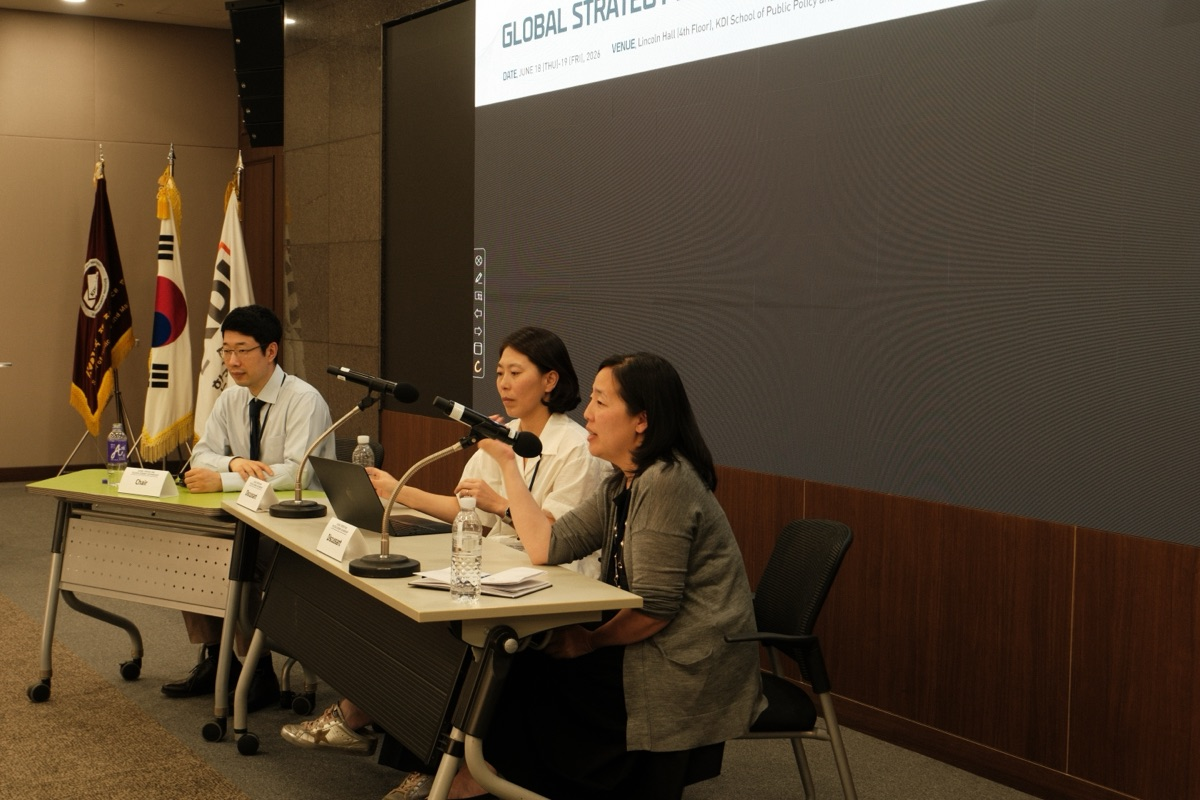
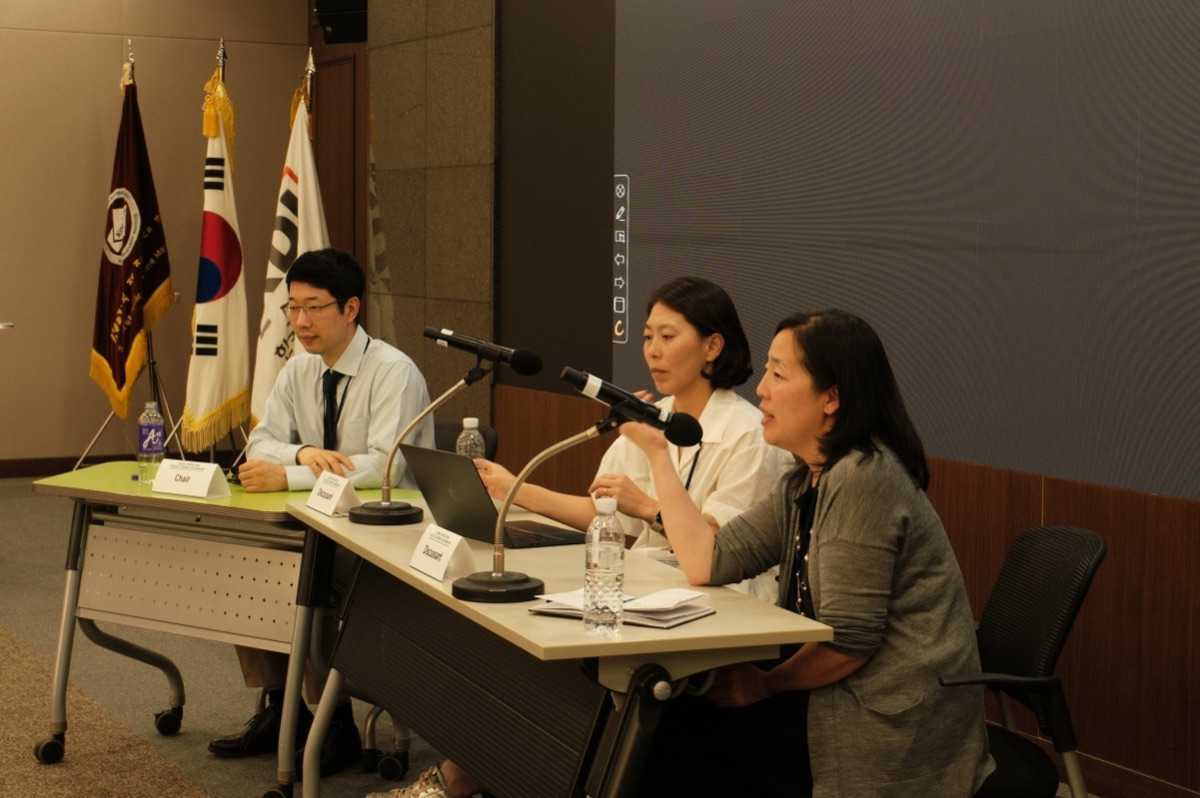
Workshop: update photo 8 with revised crop

diff --git a/workshop/index.html b/workshop/index.html
@@ -96,7 +96,7 @@
         <a href="../assets/img/workshop/workshop-5.jpg" data-lightbox><img src="../assets/img/workshop/workshop-5.jpg" width="1200" height="900" alt="GSPE Lab Workshop photo 5" loading="lazy"></a>
         <a href="../assets/img/workshop/workshop-6.jpg" data-lightbox><img src="../assets/img/workshop/workshop-6.jpg" width="1200" height="900" alt="GSPE Lab Workshop photo 6" loading="lazy"></a>
         <a href="../assets/img/workshop/workshop-7.jpg" data-lightbox><img src="../assets/img/workshop/workshop-7.jpg" width="1200" height="800" alt="GSPE Lab Workshop photo 7" loading="lazy"></a>
-        <a href="../assets/img/workshop/workshop-8.jpg" data-lightbox><img src="../assets/img/workshop/workshop-8.jpg" width="1200" height="800" alt="GSPE Lab Workshop photo 8" loading="lazy"></a>
+        <a href="../assets/img/workshop/workshop-8.jpg?v=ca415c1d" data-lightbox><img src="../assets/img/workshop/workshop-8.jpg?v=ca415c1d" width="1200" height="798" alt="GSPE Lab Workshop photo 8" loading="lazy"></a>
         <a href="../assets/img/workshop/workshop-9.jpg" data-lightbox><img src="../assets/img/workshop/workshop-9.jpg" width="1200" height="900" alt="GSPE Lab Workshop photo 9" loading="lazy"></a>
         <a href="../assets/img/workshop/workshop-10.jpg" data-lightbox><img src="../assets/img/workshop/workshop-10.jpg" width="1200" height="800" alt="GSPE Lab Workshop photo 10" loading="lazy"></a>
         <a href="../assets/img/workshop/workshop-11.jpg" data-lightbox><img src="../assets/img/workshop/workshop-11.jpg" width="1200" height="800" alt="GSPE Lab Workshop photo 11" loading="lazy"></a>
